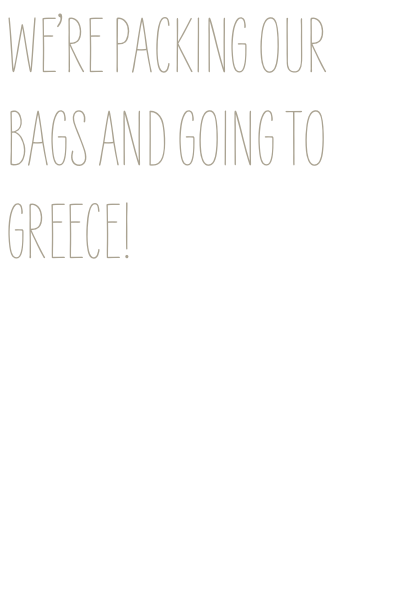
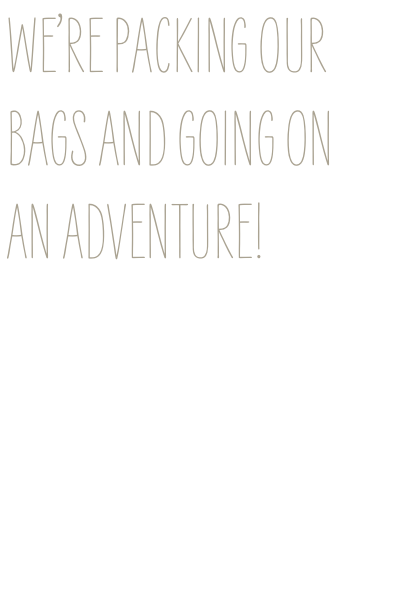
we might not being to greece, so make the registry page a bit more ambiguous

Changed region(s): [[0.0, 0.33, 0.66, 0.45], [0.72, 0.18, 0.84, 0.27], [0.33, 0.42, 0.36, 0.45]]

diff --git a/registry.html b/registry.html
@@ -15,8 +15,8 @@ title: Registry
 
     <p>
       We live in a small apartment and have a lot of what we need already (and honestly can't fit much more!)
-      For those of you who insist on getting us a gift we'll be creating a honeymoon registry, allowing people to contribute to our honeymoon in Greece!
-      You'll be able to pick a specific activity or item to contribute to like a sailing lesson, a cooking class, a day at the spa, etc.
+      For those of you who insist on getting us a gift we'll be creating a honeymoon registry, allowing people to contribute to our honeymoon adventure!
+      We're not 100% sure where we're going yet, but you'll be able to pick a specific activity or item to contribute to.
       We'd much rather have amazing memories than material things!
     </p>
   </div>
